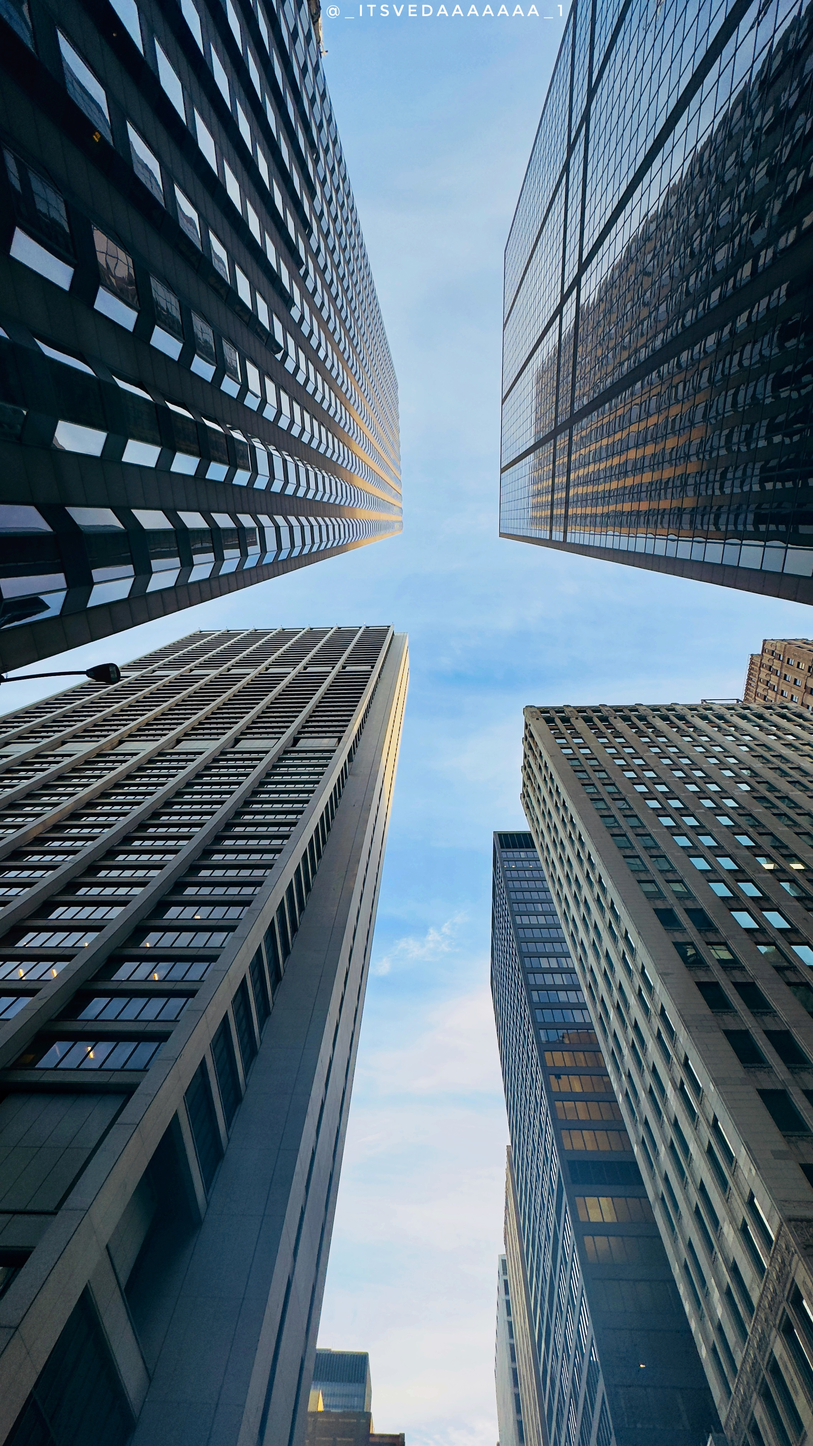
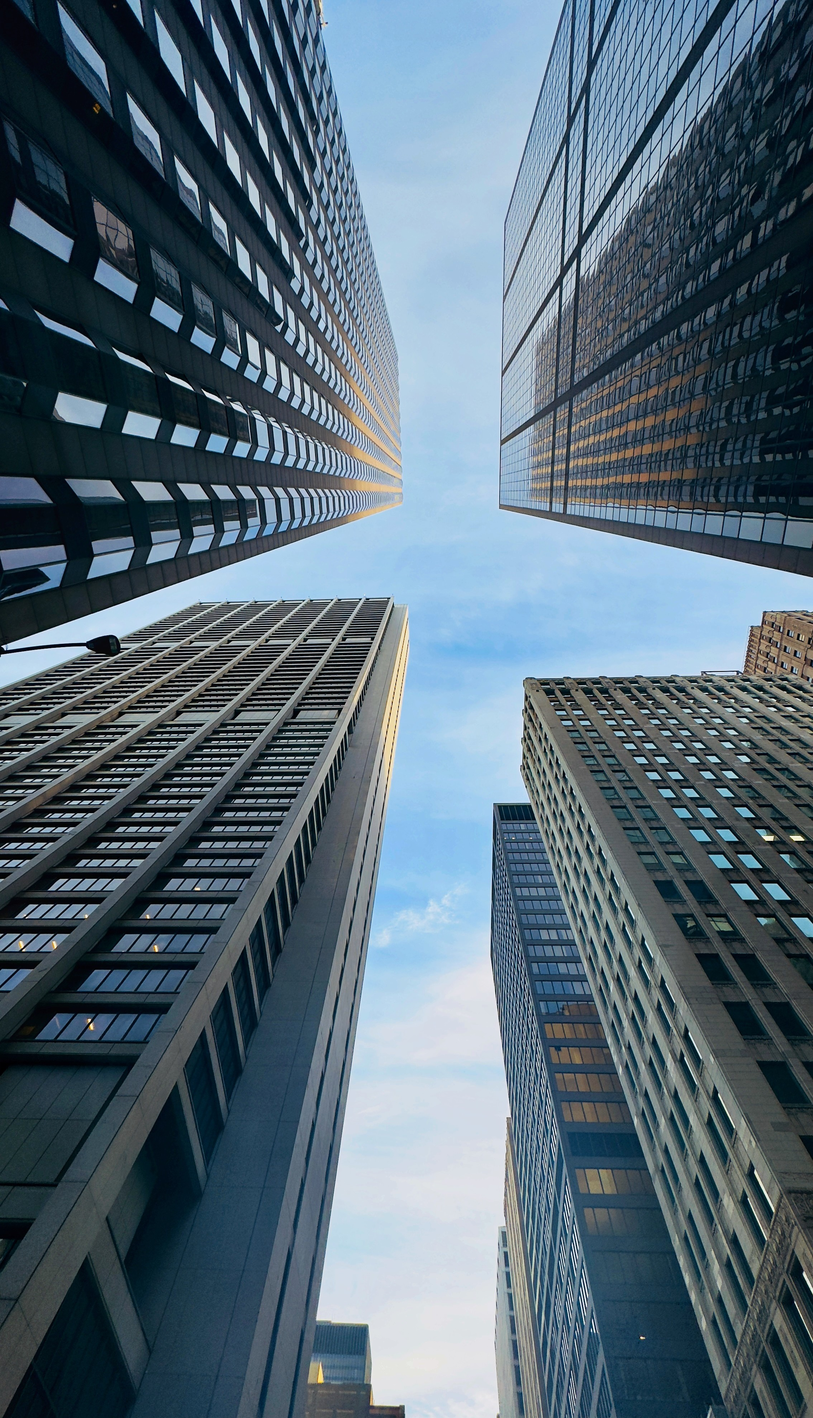
9.6

diff --git a/contact.html b/contact.html
@@ -4,7 +4,7 @@
 <meta charset="utf-8"><meta name="viewport" content="width=device-width,initial-scale=1">
 <title>Contact — Veda Bharghav</title>
 <meta name="description" content="Connect with Veda Bharghav through LinkedIn or GitHub.">
-<link rel="stylesheet" href="assets/portfolio-v9.5.4.css?v=20260826-954">
+<link rel="stylesheet" href="assets/portfolio-v9.5.5.css?v=20260826-955">
 </head>
 <body data-page="contact">
 <div class="progress"></div><div class="cursor"></div><div class="cursor-dot"></div><div class="page-transition"></div>
@@ -12,5 +12,5 @@
 <div class="mobile-menu"><a href="index.html">Home</a><a href="experience.html">Experience</a><a href="work.html">Projects</a><a href="skills.html">Skills</a><a href="photography.html">Photography</a><a href="contact.html">Contact</a></div>
 <main class="contact-page simple-contact"><section class="contact-copy reveal"><div class="section-kicker">06 / 06 — Contact</div><h1>LET’S<br>CONNECT.</h1><p>For professional conversations, collaboration, data work, or photography, connect with me through LinkedIn or explore my public work on GitHub.</p><div class="contact-links"><a href="https://www.linkedin.com/in/veda-bharghav-a61aa6304/" target="_blank"><span>LinkedIn</span><strong>Professional profile ↗</strong></a><a href="https://github.com/veda-369" target="_blank"><span>GitHub</span><strong>Projects + code ↗</strong></a></div></section><section class="contact-visual reveal"><div class="contact-ring"></div><span>DATA</span><span>AI</span><span>PHOTO</span><strong>VEDA.</strong></section></main>
 <footer class="footer"><div class="footer-name">CONTACT</div><div class="footer-meta"><a href="index.html">Return Home →</a></div></footer>
-<script src="assets/portfolio-v9.5.4.js?v=20260826-954"></script>
+<script src="assets/portfolio-v9.5.5.js?v=20260826-955"></script>
 </body></html>

diff --git a/index.html b/index.html
@@ -42,7 +42,7 @@ body.entry-locked>.site-nav,body.entry-locked>.mobile-menu,body.entry-locked>mai
 @keyframes entryGridDrift{to{transform:translate(34px,-20px) rotate(-4deg)}}@keyframes nodePulse{50%{transform:scale(1.35);box-shadow:0 0 0 15px rgba(255,255,255,.02)}}@keyframes dataOrbit{to{transform:translate(36px,-28px) rotate(15deg)}}@keyframes sunFloat{to{transform:translate(-20px,20px) scale(1.07)}}@keyframes cameraFloat{to{transform:translateX(-50%) translateY(-12px) rotate(.8deg)}}@keyframes birdMove{to{transform:translateX(-120px)}}
 @media(max-width:760px){#site-entry .entry-split{grid-template-columns:1fr;grid-template-rows:1fr 1fr}#site-entry .entry-card{padding:24px 24px 22px}#site-entry .tripod-camera{transform:translateX(-50%) scale(.72);transform-origin:bottom center}.entry-photo-side .m2{opacity:.55}#site-entry .entry-data-node:after{width:26vw}}
 </style>
-<link rel="stylesheet" href="assets/portfolio-v9.5.4.css?v=20260826-954">
+<link rel="stylesheet" href="assets/portfolio-v9.5.5.css?v=20260826-955">
 </head>
 <body class="entry-locked" data-page="home">
 <div class="progress"></div><div class="cursor"></div><div class="cursor-dot"></div><div class="page-transition"></div>
@@ -147,5 +147,5 @@ body.entry-locked>.site-nav,body.entry-locked>.mobile-menu,body.entry-locked>mai
   },{once:true});
 })();
 </script>
-<script src="assets/portfolio-v9.5.4.js?v=20260826-954"></script>
+<script src="assets/portfolio-v9.5.5.js?v=20260826-955"></script>
 </body></html>

diff --git a/work.html b/work.html
@@ -4,7 +4,7 @@
 <meta charset="utf-8"><meta name="viewport" content="width=device-width,initial-scale=1">
 <title>Projects — Veda Bharghav</title>
 <meta name="description" content="Detailed data engineering, analytics, AI/ML, and transportation projects by Veda Bharghav.">
-<link rel="stylesheet" href="assets/portfolio-v9.5.4.css?v=20260826-954">
+<link rel="stylesheet" href="assets/portfolio-v9.5.5.css?v=20260826-955">
 </head>
 <body data-page="work">
 <div class="progress"></div><div class="cursor"></div><div class="cursor-dot"></div><div class="page-transition"></div>
@@ -117,5 +117,5 @@
 <section class="section project-principle"><div class="wrap"><div class="section-kicker reveal">Project principle</div><h2 class="section-title reveal">SOURCE.<br>LOGIC.<br>TRUST.<br>ACTION.</h2><p class="section-intro reveal">A polished interface is the last step. The quality of the decision depends on everything underneath it.</p><div class="hero-actions reveal"><a class="link-btn" href="index.html#projects"><span>← Back to home projects</span></a></div></div></section>
 </main>
 <footer class="footer"><div class="footer-name">PROJECTS</div><div class="footer-meta"><a href="index.html#projects">Back to Home</a> · <a href="contact.html">Contact</a> · <a href="skills.html">Next: Skills →</a></div></footer>
-<script src="assets/portfolio-v9.5.4.js?v=20260826-954"></script>
+<script src="assets/portfolio-v9.5.5.js?v=20260826-955"></script>
 </body></html>

diff --git a/photography.html b/photography.html
@@ -4,7 +4,7 @@
 <meta charset="utf-8"><meta name="viewport" content="width=device-width,initial-scale=1">
 <title>Photography — Veda Bharghav</title>
 <meta name="description" content="Photography portfolio of Veda Bharghav — portraits, nature, landscapes, canids, astro, street, travel, and visual stories.">
-<link rel="stylesheet" href="assets/portfolio-v9.5.4.css?v=20260826-954">
+<link rel="stylesheet" href="assets/portfolio-v9.5.5.css?v=20260826-955">
 </head>
 <body class="photo" data-page="photography">
 <div class="progress"></div><div class="cursor"></div><div class="cursor-dot"></div><div class="page-transition"></div>
@@ -44,5 +44,5 @@
 </main>
 <footer class="footer"><div class="footer-name photo-footer-name">PHOTOGRAPHY</div><div class="footer-meta"><a href="index.html?from=photo" data-transition="data">← Return to data portfolio</a> · <a href="contact.html">Contact</a></div></footer>
 <div class="lightbox" aria-hidden="true"><button class="lb-close" aria-label="Close">×</button><button class="lb-prev" aria-label="Previous">←</button><div class="lightbox-frame"><img src="photos/photo 0.jpg" alt="Selected frame"><div class="lightbox-caption"></div></div><button class="lb-next" aria-label="Next">→</button></div>
-<script src="assets/portfolio-v9.5.4.js?v=20260826-954"></script>
+<script src="assets/portfolio-v9.5.5.js?v=20260826-955"></script>
 </body></html>

diff --git a/experience.html b/experience.html
@@ -4,7 +4,7 @@
 <meta charset="utf-8"><meta name="viewport" content="width=device-width,initial-scale=1">
 <title>Experience — Veda Bharghav</title>
 <meta name="description" content="Professional experience of Veda Bharghav across data engineering, analytics, renewable-energy manufacturing, and enterprise technology.">
-<link rel="stylesheet" href="assets/portfolio-v9.5.4.css?v=20260826-954">
+<link rel="stylesheet" href="assets/portfolio-v9.5.5.css?v=20260826-955">
 </head>
 <body data-page="experience">
 <div class="progress"></div><div class="cursor"></div><div class="cursor-dot"></div><div class="page-transition"></div>
@@ -31,5 +31,5 @@
 </div></div></section>
 </main>
 <footer class="footer"><div class="footer-name">EXPERIENCE</div><div class="footer-meta"><a href="index.html">Home</a> · <a href="contact.html">Contact</a> · <a href="work.html">Next: Projects →</a></div></footer>
-<script src="assets/portfolio-v9.5.4.js?v=20260826-954"></script>
+<script src="assets/portfolio-v9.5.5.js?v=20260826-955"></script>
 </body></html>

diff --git a/skills.html b/skills.html
@@ -4,7 +4,7 @@
 <meta charset="utf-8"><meta name="viewport" content="width=device-width,initial-scale=1">
 <title>Skills — Veda Bharghav</title>
 <meta name="description" content="Technical skills across data engineering, analytics, BI, cloud, AI, and automation.">
-<link rel="stylesheet" href="assets/portfolio-v9.5.4.css?v=20260826-954">
+<link rel="stylesheet" href="assets/portfolio-v9.5.5.css?v=20260826-955">
 </head>
 <body data-page="skills">
 <div class="progress"></div><div class="cursor"></div><div class="cursor-dot"></div><div class="page-transition"></div>
@@ -27,5 +27,5 @@
 </div></section>
 </main>
 <footer class="footer"><div class="footer-name">SKILLS</div><div class="footer-meta"><a href="index.html">Home</a> · <a href="contact.html">Contact</a> · <a href="photography.html">Next: Photography →</a></div></footer>
-<script src="assets/portfolio-v9.5.4.js?v=20260826-954"></script>
+<script src="assets/portfolio-v9.5.5.js?v=20260826-955"></script>
 </body></html>

diff --git a/assets/portfolio-v9.5.5.js b/assets/portfolio-v9.5.5.js
@@ -132,9 +132,7 @@ const photoMeta={
   14:{title:'Bryce Canyon National Park',place:'Utah',categories:'landscapes nature travel'},
   17:{title:'Grand Canyon National Park',place:'Arizona',categories:'landscapes nature travel'},
   21:{title:'Bubble Rock',place:'Acadia National Park, Maine',categories:'nature landscapes travel'},
-  24:{title:'Bryce Canyon National Park',place:'Utah',categories:'landscapes nature travel'},
-  31:{title:'Bear Rock Shadow',place:'',categories:'nature landscapes'},
-  32:{title:'Tuckaleechee Caverns',place:'Tennessee',categories:'nature travel'}
+  24:{title:'Bryce Canyon National Park',place:'Utah',categories:'landscapes nature travel'}
 };
 const exactPhotoMeta={
   'photo 26 (5)':{title:'Bear Rock Shadow',place:'',categories:'nature landscapes'},

diff --git a/README.md b/README.md
@@ -1,36 +1,5 @@
-# Veda Bharghav — Portfolio
+# Veda Bharghav Portfolio
 
-Personal portfolio for data engineering, analytics, AI/ML, business intelligence, and photography.
+Personal portfolio covering data engineering, analytics, BI, AI/ML, projects, experience, credentials, and photography.
 
-## Portfolio Sections
-
-- **Home** — introduction, selected impact metrics, experience preview, featured projects, and working approach
-- **Experience** — professional experience, measurable outcomes, education, and certifications
-- **Projects** — detailed case studies across data engineering, analytics, AI/ML, transportation, healthcare, and retail
-- **Skills** — technical stack, platforms, analytics tools, and Microsoft credentials
-- **Photography** — responsive photo gallery with landscape, portrait, and panoramic layouts
-- **Contact** — LinkedIn and GitHub
-
-## Photography Gallery
-
-The photography gallery reads images from the public `/photos` folder and automatically adapts each frame to the image's natural orientation.
-
-Supported formats:
-
-- `.jpg`
-- `.jpeg`
-- `.png`
-- `.webp`
-
-New photos can be added directly to the `/photos` folder without changing the gallery layout. Existing numbered filenames and duplicate-style filenames are supported.
-
-Known locations and captions are maintained in the photography metadata. New captions can be added whenever additional photo details are available.
-
-## Deployment
-
-This site is designed for GitHub Pages. Push the portfolio files to the repository's publishing branch and GitHub Pages will serve the site.
-
-## Links
-
-- Portfolio: `veda-369.github.io`
-- GitHub: `github.com/veda-369`
+Photography captions are attached only to specifically identified files.
